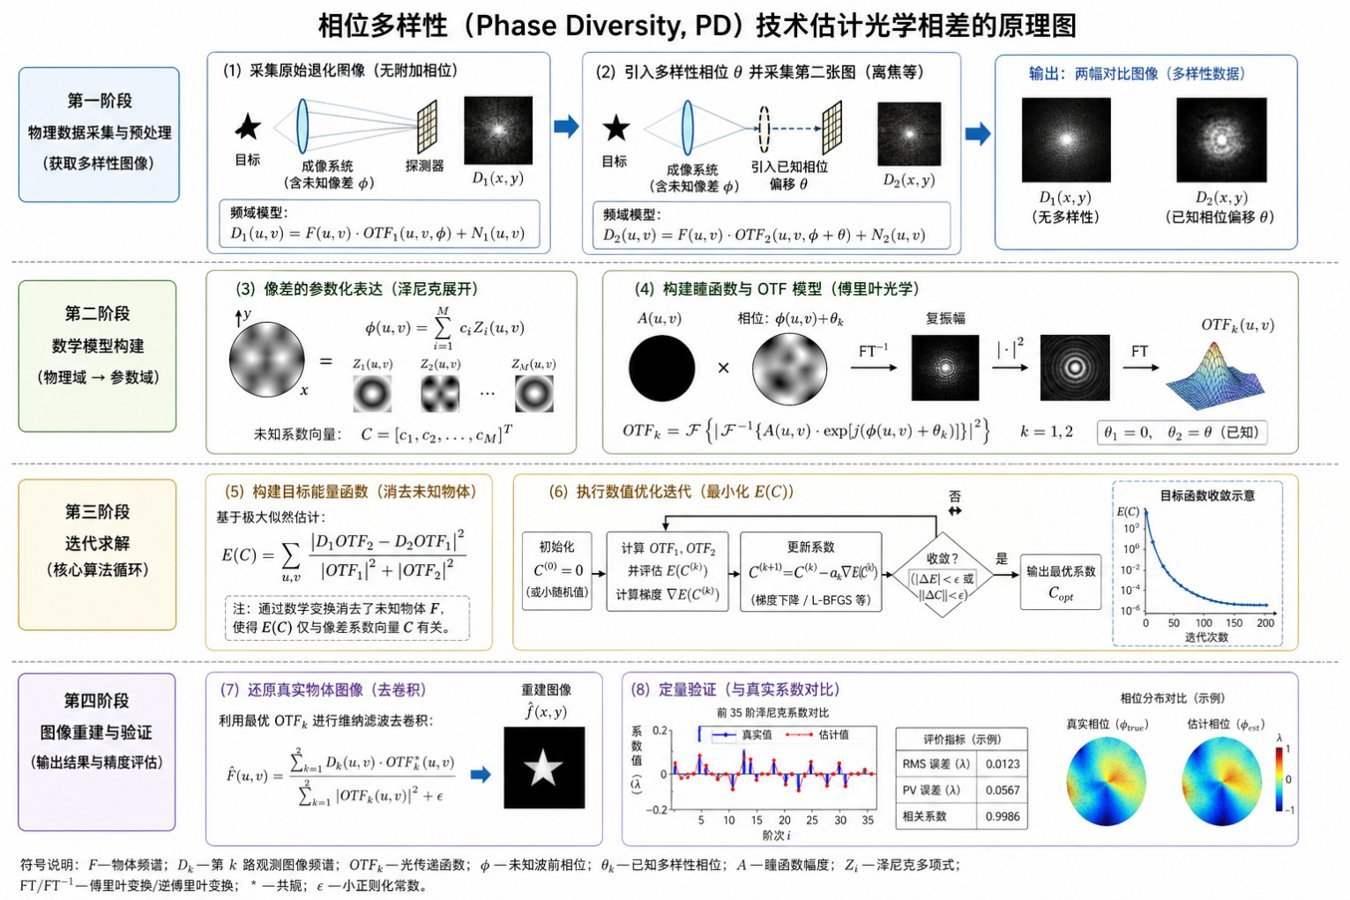
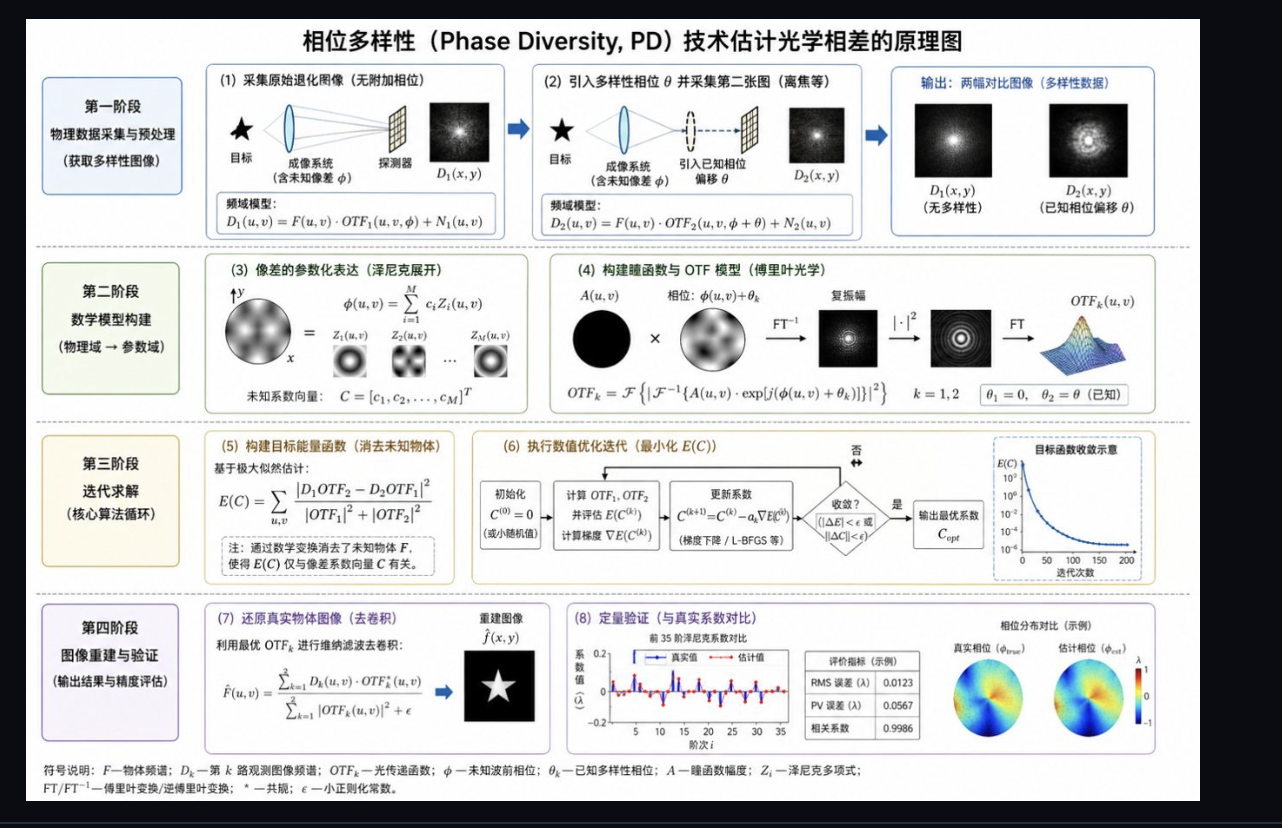
Add files via upload
Update website content and figures

diff --git a/docs/assets/js/app.js b/docs/assets/js/app.js
@@ -29,12 +29,12 @@ if(m.id==='optics')extra='';
 if(m.id==='transfer')extra=`<div class="metrics"><div class="metric"><div class="number">0.800</div><label>SERS single-lab R²</label></div><div class="metric"><div class="number">0.205 ± 0.470</div><label>SERS leave-one-lab mean R²</label></div><div class="metric"><div class="number">0.262</div><label>MDD independent-cohort AUC</label></div></div>`;
 if(m.id==='future')extra=`<div class="formgrid"><div class="field"><label>PHENOMENON / OPERATIONAL DEFINITION</label><textarea id="field1" placeholder="What precisely happens? How is it measured?"></textarea></div><div class="field"><label>AVAILABLE EVIDENCE / LIMIT</label><textarea id="field2" placeholder="What data actually exist? Which tool or concept limits inference?"></textarea></div><div class="field"><label>BASELINE / MODEL A</label><textarea id="field3" placeholder="First mechanism and predictions"></textarea></div><div class="field"><label>NEW CONSTRAINT / MODEL B / TEST</label><textarea id="field4" placeholder="How could evidence distinguish the alternatives?"></textarea></div></div><div class="img-actions"><button class="mini" onclick="saveResearch()">Save this question locally</button><button class="mini" onclick="exportResearch()">Download project notes (.json)</button></div>`;
 
-if(m.id==='datasets')extra=`<div class="atlas-workspace"><div class="scale-tabs" id="scale-tabs"></div><div class="atlas-split"><div class="atlas-visual" id="atlas-visual"><div class="watermark">SCHEMATIC / NOT AN EXPERIMENTAL RESULT</div><svg id="atlas-svg" viewBox="0 0 640 340"></svg></div><div class="atlas-schema"><div class="schema-type" id="atlas-type">BIDS</div><h3 id="atlas-name">Human EEG</h3><div class="filetree" id="atlas-files"></div><div class="schema-gap" id="atlas-limit"></div><div class="schema-link"><a id="atlas-link" target="_blank" rel="noopener noreferrer">OPEN DATA / STANDARD ↗</a></div></div></div><div class="atlas-status" id="atlas-status"></div></div>`;
+if(m.id==='datasets')extra=`<div class="atlas-workspace"><div class="scale-tabs" id="scale-tabs"></div><div class="atlas-split"><div class="atlas-visual" id="atlas-visual"><svg id="atlas-svg" viewBox="0 0 640 340"></svg></div><div class="atlas-schema"><div class="schema-type" id="atlas-type">BIDS</div><h3 id="atlas-name">Human EEG</h3><div class="filetree" id="atlas-files"></div><div class="schema-gap" id="atlas-limit"></div><div class="schema-link"><a id="atlas-link" target="_blank" rel="noopener noreferrer">OPEN DATA / STANDARD ↗</a></div></div></div><div class="atlas-status" id="atlas-status"></div></div>`;
 if(m.id==='gaps')extra=`<div class="gap-workspace"><div class="gap-grid">
 <div class="gap-card"><div class="gap-index">01 / COVERAGE</div><h3>Not measured together.</h3><svg viewBox="0 0 280 205" aria-label="unaligned sampling"><g stroke="#5bd9ec" stroke-width="2" fill="none"><path d="M30 37H248M30 167H248" opacity=".5"/><path d="M67 37V78"/><path d="M209 121V167"/><path d="M67 78Q143 115 209 121" stroke-dasharray="7 9" opacity=".55"/></g><rect x="23" y="17" width="88" height="36" rx="9" fill="#132b3a" stroke="#5bd9ec"/><text x="67" y="40" text-anchor="middle" fill="#d9faff" font-size="16">MICRO</text><rect x="163" y="151" width="96" height="36" rx="9" fill="#132b3a" stroke="#5bd9ec"/><text x="211" y="174" text-anchor="middle" fill="#d9faff" font-size="16">HUMAN</text><text x="140" y="106" fill="#eecb8c" text-anchor="middle" font-size="28">?</text></svg><div class="gap-detail">Cell type, synapse, spikes, LFP and EEG are rarely measured in one matched system.</div><div class="gap-accent">File conversion cannot create an unmeasured variable.</div></div>
 <div class="gap-card"><div class="gap-index">02 / IDENTIFIABILITY</div><h3>Several causes, one trace.</h3><svg viewBox="0 0 280 205" aria-label="two circuit interpretations"><g stroke="#88e4c1" stroke-width="2.3" fill="none"><path d="M16 52L88 78L156 102"/><path d="M16 149L88 125L156 102"/><path d="M156 102L254 102"/></g><g fill="#182a34" stroke="#81dcca" stroke-width="2"><circle cx="17" cy="52" r="11"/><circle cx="88" cy="78" r="11"/><circle cx="17" cy="149" r="11"/><circle cx="88" cy="125" r="11"/></g><path d="M168 102Q180 43 194 102T221 102T248 102" stroke="#edd59e" stroke-width="3" fill="none"/><text x="112" y="190" fill="#829baa" font-size="13">Different circuits · similar LFP</text></svg><div class="gap-detail">Population fields are mixtures shaped by anatomy, filtering, reference and source geometry.</div><div class="gap-accent">Predictive fit is not yet circuit identification.</div></div>
 <div class="gap-card"><div class="gap-index">03 / MEANING & TRANSFER</div><h3>The target may shift.</h3><svg viewBox="0 0 280 205" aria-label="concept shifts across paradigms"><g fill="#203341" stroke="#87bfe2"><rect x="25" y="36" width="93" height="38" rx="7"/><rect x="163" y="36" width="93" height="38" rx="7"/></g><text x="72" y="60" text-anchor="middle" fill="#fff" font-size="15">MOUSE</text><text x="209" y="60" text-anchor="middle" fill="#fff" font-size="15">HUMAN</text><path d="M117 55H161" stroke="#eecb8c" stroke-width="2" stroke-dasharray="5 6"/><text x="141" y="111" text-anchor="middle" font-size="14" fill="#c5d3db">behavior ≠ report</text><text x="141" y="147" text-anchor="middle" font-size="14" fill="#c5d3db">LFP ≠ scalp EEG</text><text x="141" y="182" text-anchor="middle" fill="#eecb8c" font-size="21">?</text></svg><div class="gap-detail">Task definitions, species homology, awareness/report and recording physics can all differ.</div><div class="gap-accent">Test the translation before claiming transfer.</div></div>
-</div><div class="gap-foot"><span>NWB, BIDS and h5ad solve important parts of exchange and reuse.</span><span>THE OPEN GAP IS EXPLANATORY</span></div></div>`;
+</div></div>`;
 if(m.id==='pilot')extra=`<div class="pilot-workspace"><div class="pilot-switch" id="pilot-switch"></div><div class="pilot-board"><div class="pilot-graphic"><svg viewBox="0 0 640 330" role="img" aria-label="Conceptual spike-to-field pipeline"><defs><linearGradient id="pilotG" x1="0" x2="1"><stop stop-color="#63e6fc"/><stop offset="1" stop-color="#ecc991"/></linearGradient></defs><g font-size="15" fill="#a1b7c8" font-weight="700"><text x="30" y="30">VISUAL FLASH</text><text x="30" y="118">UNITS · SPIKES</text><text x="30" y="236">LOCAL LFP</text></g><rect x="30" y="44" width="578" height="24" rx="8" fill="#111b29"/><rect x="82" y="44" width="11" height="24" fill="#ecd28f"/><rect x="245" y="44" width="11" height="24" fill="#ecd28f"/><rect x="416" y="44" width="11" height="24" fill="#ecd28f"/><g stroke="#73dfec" stroke-width="2"><path d="M30 137H609M30 160H609M30 183H609M30 206H609" stroke="#2b4557" stroke-width="1"/><path d="M58 128v18m34 0v-18m60 0v18m30 0v-18m84 0v18m40 0v-18m50 0v18m86 0v-18m88 0v18"/><path d="M63 152v17m26 0v-17m45 0v17m88 0v-17m18 0v17m54 0v-17m52 0v17m110 0v-17"/><path d="M46 176v16m88-16v16m30-16v16m48-16v16m100-16v16m65-16v16m92-16v16"/><path d="M88 199v16m47-16v16m24-16v16m91-16v16m77-16v16m56-16v16m65-16v16"/></g><path d="M30 289 Q51 264 72 286T114 290T156 279T198 289T240 275T282 291T324 278T366 287T408 275T450 291T492 276T534 291T608 280" stroke="url(#pilotG)" stroke-width="4" fill="none" class="glimmer"/><path d="M30 289 Q51 264 72 286T114 290T156 279T198 289T240 275T282 291T324 278T366 287T408 275T450 291T492 276T534 291T608 280" stroke="#000" stroke-width="1" fill="none" stroke-dasharray="8 11" class="pilot-run"/><text x="30" y="316" fill="#768fa3" font-size="12">ILLUSTRATIVE SIGNALS · NOT RESULTS</text></svg></div><div class="pilot-copy"><div class="schema-type" id="pilot-kicker">01 / DATASET</div><h3 id="pilot-title">Allen Visual Coding – Neuropixels</h3><p id="pilot-detail">Public NWB session with simultaneous spike and LFP streams, stimulus events, running and pupil traces. Choose sessions with usable VISp units and an appropriate LFP probe.</p><div class="pilot-code" id="pilot-formula">unit spikes + LFP + flash times + running/pupil</div><div class="pilot-disclaimer">PROPOSED TEST · NO RESULT CLAIMED</div><div class="pilot-source"><a href="https://allensdk.readthedocs.io/en/latest/visual_coding_neuropixels.html" target="_blank" rel="noopener noreferrer">ALLENSDK DATA & EXAMPLE NOTEBOOKS ↗</a></div></div></div></div>`;
 return `<section class="chapter" id="${m.id}"><div class="slide-inner"><div class="chapter-number">${String(i+1).padStart(2,'0')}</div><div class="eyebrow">${m.eyebrow}</div><h2>${m.title}</h2><p class="lead">${m.intro}</p>${extra}${figureHTML(m)}${m.label?'<div class="sm-note">'+m.label+'</div>':''}<div class="question">${m.question}</div></div></section>`}
 el('chapters').innerHTML=modules.map(genChapter).join('');allIds=['cover',...modules.map(x=>x.id),'wall','acknowledgements','closing'];
@@ -42,7 +42,7 @@ el('sideitems').innerHTML=allIds.map((id,i)=>`<button class="navbtn" id="nav-${i
 let sel={};modules.forEach(m=>{sel[m.id]=0;if(!m.gallery?.length)return;el('thumbs-'+m.id).innerHTML=m.gallery.map((id,j)=>{let d=images[id];return `<button class="thumb ${j===0?'on':''}" onclick="selectFig('${m.id}',${j})"><img src="${d.src}" alt="" loading="lazy"/><span><strong>${esc(d.title)}</strong><span class="cap">${esc(d.source)}</span></span></button>`}).join('')});
 function selectFig(mid,j){let m=modules.find(x=>x.id===mid);if(!m||!m.gallery?.length)return;j=(j+m.gallery.length)%m.gallery.length;sel[mid]=j;let id=m.gallery[j],d=images[id];const v=document.querySelector(`[data-main="${mid}"]`);v.src=d.src;v.setAttribute('onclick',`showImg('${id}')`);el('thumbs-'+mid).querySelectorAll('button').forEach((b,i)=>b.classList.toggle('on',i===j));document.querySelector(`[data-title="${mid}"]`).textContent=d.title;document.querySelector(`[data-source="${mid}"]`).textContent=d.source;if(mode)requestAnimationFrame(fitPresentationPage);}
 function cycle(mid,step){selectFig(mid,(sel[mid]||0)+step)}
-function showImg(id){let d=images[id];currentImage=id;el('large').src=d.src;el('largecap').textContent=d.title+' · '+d.source+(d.note?' · '+d.note:'');el('modal').classList.add('open');}
+function showImg(id){let d=images[id];currentImage=id;el('large').src=d.src;let parts=[d.title,d.source,d.note].filter(Boolean);el('largecap').textContent=parts.join(' · ');el('modal').classList.add('open');}
 function closeImg(){el('modal').classList.remove('open');currentImage=null;el('large').src='';}el('close').onclick=closeImg;el('modal').addEventListener('click',e=>{if(e.target===el('modal'))closeImg()});
 
 const datasetAtlas=[
@@ -59,7 +59,7 @@ if(kind==='spikes')return base+`<g stroke="#315267" opacity=".8">${[95,128,161,1
 if(kind==='cell')return base+`<path d="M321 186V267M321 186C300 144 256 144 243 99M321 186C359 162 365 119 419 90M321 188C280 214 248 218 211 247M321 188C363 221 414 221 452 255M243 99L197 60M243 99L267 50M419 90L448 49M419 90L479 107M211 247L165 232M452 255L482 289" stroke="#8fe5d1" stroke-width="5" stroke-linecap="round" fill="none"/><circle cx="321" cy="186" r="25" fill="#123945" stroke="#e4c78b" stroke-width="4"/><path d="M54 283H182M64 266L64 295M84 273L84 287M103 256L103 297M121 279L121 284M143 259L143 297M164 274L164 286" stroke="#e4c78b" stroke-width="3"/><text x="46" y="54" fill="#bddde9" font-size="17">PATCH CLAMP + MORPHOLOGY</text>`;
 if(kind==='graph')return base+`<g stroke="#67cfe0" stroke-width="1.4" opacity=".75">${Array.from({length:65},(_,i)=>{let a=i%20,b=(i*7+3)%20;let x1=90+(a%5)*110,y1=67+Math.floor(a/5)*72;let x2=90+(b%5)*110,y2=67+Math.floor(b/5)*72;return `<path d="M${x1} ${y1}L${x2} ${y2}"/>`}).join('')}</g><g fill="#e9c686" stroke="#91e4ef" stroke-width="2">${Array.from({length:20},(_,i)=>{let a=i%20;return `<circle cx="${90+(a%5)*110}" cy="${67+Math.floor(a/5)*72}" r="9"/>`}).join('')}</g><text x="40" y="323" fill="#b8d3e0" font-size="14">SYNAPSE GRAPH  ↔  FUNCTIONAL TRACE</text>`;
 return base+`<g font-size="13" fill="#a9c0d0">${Array.from({length:8},(_,i)=>`<text x="${28+i*73}" y="56">G${i+1}</text>`).join('')}</g><g>${Array.from({length:6},(_,r)=>Array.from({length:8},(_,c)=>{let n=(r*13+c*7)%10;return `<rect x="${28+c*73}" y="${75+r*34}" width="56" height="25" rx="3" fill="hsl(${185+n*7} 58% ${15+n*4}%)" stroke="#325265"/>`}).join('')).join('')}</g><text x="32" y="305" fill="#dbe9f0" font-size="15">CELLS × GENES   ·   obs / var</text>`;}
-function selectAtlas(i){atlasCurrent=i;let d=datasetAtlas[i];document.querySelectorAll('#scale-tabs .scale-tab').forEach((b,j)=>b.classList.toggle('on',i===j));el('atlas-type').textContent=d.schema;el('atlas-name').textContent=d.title;el('atlas-files').textContent=d.tree;el('atlas-limit').textContent='NOT DIRECTLY OBSERVED · '+d.gap;el('atlas-status').textContent=d.scope;el('atlas-link').href=d.source;el('atlas-svg').innerHTML=atlasPicture(d.visual);}
+function selectAtlas(i){atlasCurrent=i;let d=datasetAtlas[i];document.querySelectorAll('#scale-tabs .scale-tab').forEach((b,j)=>b.classList.toggle('on',i===j));el('atlas-type').textContent=d.schema;el('atlas-name').textContent=d.title;el('atlas-files').textContent=d.tree;el('atlas-limit').textContent='NOT DIRECTLY OBSERVED · '+d.gap;el('atlas-status').textContent='';el('atlas-link').href=d.source;el('atlas-svg').innerHTML=atlasPicture(d.visual);}
 el('scale-tabs').innerHTML=datasetAtlas.map((d,i)=>`<button class="scale-tab" onclick="selectAtlas(${i})">${esc(d.label)}</button>`).join('');selectAtlas(0);
 const pilotStages=[
  ['DATASET','Allen Visual Coding–Neuropixels','NWB spikes, LFP, flash times, running and pupil. Select sessions with good-quality VISp units and usable local LFP, preferably with a second region for a later check.','spikes + LFP + stimulus + behavior'],

diff --git a/docs/data/site-data.js b/docs/data/site-data.js
@@ -12,7 +12,7 @@ window.SITE_DATA = {
         "memory_spikes",
         "theta_example"
       ],
-      "label": "What is already known — and what still needs an explanatory bridge?",
+      "label": "",
       "question": "Which micro-to-meso relations can remain testable in human dynamics?"
     },
     {
@@ -34,7 +34,7 @@ window.SITE_DATA = {
         "animal_memory",
         "theta_example"
       ],
-      "label": "Behavioral definitions constrain what neural signals can mean.",
+      "label": "",
       "question": "What context must a predictive population state retain?"
     },
     {
@@ -43,9 +43,10 @@ window.SITE_DATA = {
       "title": "From navigational behavior to molecular candidates.",
       "intro": "Biological magnetosensing illustrates a difficult macro-to-micro program: identify a physical interaction, molecular candidate and a causal route to the behavior. A microscopic effect alone is not yet a complete circuit-level navigation theory.",
       "gallery": [
-        "chirality_anim"
+        "chirality_anim",
+        "microfluidic_system"
       ],
-      "label": "Related training: spirulina chirality → shear-dependent drift → proposed microfluidic readout.",
+      "label": "",
       "question": "Where is the intermediate transduction and circuit evidence?"
     },
     {
@@ -61,7 +62,7 @@ window.SITE_DATA = {
         "trusense_eleccompare",
         "trusense_ui"
       ],
-      "label": "SensUs 2026: CoDH sensing and biology work · team Gold Award",
+      "label": "",
       "question": "When the trace changes, what physical or biological quantity changed?"
     },
     {
@@ -73,7 +74,7 @@ window.SITE_DATA = {
         "sers_anim",
         "ev_sers_reference"
       ],
-      "label": "Dual-channel method proposal · reference assay shown separately",
+      "label": "",
       "question": "Which signal components estimate the intended biological quantity?"
     },
     {
@@ -82,14 +83,14 @@ window.SITE_DATA = {
       "title": "One image, several possible causes.",
       "intro": "Scattering and wavefront aberrations make inverse imaging non-unique. Phase diversity introduces a known optical change to constrain the inverse problem. Your LoRA work explores adaptation of 3D restoration models, with model limits still requiring testing.",
       "gallery": [
-        "caoburden",
         "caopipeline",
-        "caoprelim",
-        "caohardware",
         "caooverview",
-        "guo_anim"
+        "caoloop",
+        "caobackbone",
+        "caoprelim",
+        "caohardware"
       ],
-      "label": "Computational adaptive optics · proposed system and initial validation",
+      "label": "",
       "question": "Which extra measurement reduces ambiguity rather than only fitting pixels?"
     },
     {
@@ -101,17 +102,8 @@ window.SITE_DATA = {
         "contest_final2d",
         "contest_final3d"
       ],
-      "label": "Original competition report · Fig. 4-1 (2D Zemax) · Fig. 4-2 (3D model) · July 2026",
+      "label": "",
       "question": "How do imaging performance and practical fabrication constraints shape a feasible optical design?"
-    },
-    {
-      "id": "transfer",
-      "eyebrow": "VALIDATION / TRANSFER",
-      "title": "A predictive feature may not be invariant.",
-      "intro": "In your SERS public-data analysis, cross-laboratory performance fell relative to within-laboratory validation; the fixed MDD signature did not transfer to a separate tissue and platform. These are real limits of that analysis, and a reason to explicitly test cross-species transfer assumptions.",
-      "gallery": [],
-      "label": "Rotation 2 · observed generalization limits",
-      "question": "What relation stays stable when the measurement domain changes?"
     },
     {
       "id": "mind",
@@ -122,7 +114,7 @@ window.SITE_DATA = {
         "cogitate",
         "memory_spikes"
       ],
-      "label": "COGITATE Consortium · Nature 2025",
+      "label": "",
       "question": "Which contrast would make the concept experimentally decidable?"
     },
     {
@@ -135,7 +127,7 @@ window.SITE_DATA = {
         "model_gu",
         "model_lyu"
       ],
-      "label": "Pang · Nature, 2023  |  Gu · Nature Communications, 2015  |  Lyu · Nature Neuroscience, 2025  · explanatory schematics",
+      "label": "",
       "question": "Could one circuit-constrained dynamical model predict a human response that was not used for fitting?"
     },
     {
@@ -153,7 +145,7 @@ window.SITE_DATA = {
       "title": "Three different reasons a bridge may fail.",
       "intro": "Current limitations are not just a missing timestamp or an inconvenient file format. Some variables were never measured together; other circuit states remain indistinguishable in the recording; some constructs are not yet operationally stable.",
       "gallery": [],
-      "label": "These are methodological diagnoses from the source survey; they are not claimed experimental results.",
+      "label": "",
       "question": "Which missing constraint would actually change the model we can test?"
     },
     {
@@ -185,7 +177,7 @@ window.SITE_DATA = {
     },
     "memory_spikes": {
       "title": "Human memory retrieval: neuronal sequence replay",
-      "source": "Vaz et al. · Science · 2020",
+      "source": "Vaz et al., Science, 2020",
       "group": "neural",
       "note": "From supplied research presentation; literature figure",
       "src": "./assets/images/memory_spikes.jpg"
@@ -199,9 +191,9 @@ window.SITE_DATA = {
     },
     "cogitate": {
       "title": "COGITATE: competing consciousness predictions",
-      "source": "COGITATE Consortium · Nature · 2025",
+      "source": "",
       "group": "neural",
-      "note": "Literature figure from earlier supplied research presentation",
+      "note": "",
       "src": "./assets/images/cogitate.jpg"
     },
     "theta_example": {
@@ -226,32 +218,32 @@ window.SITE_DATA = {
       "src": "./assets/images/caoburden.jpg"
     },
     "caopipeline": {
-      "title": "Phase diversity: image pairs and wavefront recovery",
-      "source": "Guo Min lab · project proposal · 2026",
+      "title": "Phase diversity (PD): optical phase estimation principle",
+      "source": "",
       "group": "guo",
-      "note": "Method diagram from user-supplied proposal",
+      "note": "",
       "src": "./assets/images/caopipeline.jpg"
     },
     "caoprelim": {
       "title": "Wavefront estimation and recovery: initial validation",
-      "source": "Guo Min lab · project proposal · 2026",
+      "source": "",
       "group": "guo",
-      "note": "Initial validation figure presented in proposal",
+      "note": "",
       "src": "./assets/images/caoprelim.jpg"
     },
     "caohardware": {
       "title": "Adaptive-optics fluorescence microscopy setup",
-      "source": "Guo Min lab · project proposal · 2026",
+      "source": "",
       "group": "guo",
-      "note": "Optical layout and lab photo from proposal",
+      "note": "",
       "src": "./assets/images/caohardware.jpg"
     },
     "caooverview": {
       "title": "Deep-tissue computational microscopy study plan",
-      "source": "Guo Min lab · project proposal · 2026",
+      "source": "",
       "group": "guo",
-      "note": "Research design / proposed system",
-      "src": "./assets/images/caooverview.jpg"
+      "note": "",
+      "src": "./assets/images/caooverview_new.png"
     },
     "trusense_device": {
       "title": "Wearable TruSense: exploded-device schematic",
@@ -311,23 +303,23 @@ window.SITE_DATA = {
     },
     "ev_sers_reference": {
       "title": "Reference SERS sandwich-assay scheme",
-      "source": "User-provided reference figure · source not specified",
+      "source": "",
       "group": "sers",
-      "note": "Earlier EpCAM/TGF-β1 schematic; differs from current CD45/CD28/CD16 proposal",
+      "note": "",
       "src": "./assets/images/ev_sers_reference.jpg"
     },
     "chirality_anim": {
       "title": "Chirality selection in shear flow · animated",
-      "source": "Your Xie Can rotation · conceptual mechanism",
+      "source": "",
       "group": "mechanism",
-      "note": "Predicted separation; no completed device validation",
+      "note": "",
       "src": "./assets/images/chirality_anim.gif"
     },
     "sers_anim": {
       "title": "SERS dual-channel detection · animated",
-      "source": "Your proposed CD45+ EV / CD28–CD16 work",
+      "source": "",
       "group": "sers",
-      "note": "Conceptual animation; not a validated diagnostic result",
+      "note": "",
       "src": "./assets/images/sers_anim.gif"
     },
     "guo_anim": {
@@ -346,38 +338,59 @@ window.SITE_DATA = {
     },
     "contest_final2d": {
       "title": "Final team lens · 2D Zemax ray trace",
-      "source": "Competition report · Sec. 4.1, Fig. 4-1 · July 2026",
-      "note": "Final optimized team optical structure. Zemax simulation, not a photograph of a manufactured lens.",
+      "source": "",
+      "note": "",
       "group": "optics",
       "src": "./assets/images/contest_final2d.jpg"
     },
     "contest_final3d": {
       "title": "Final optical system · 3D digital model",
-      "source": "Competition report · Sec. 4.1, Fig. 4-2 · July 2026",
-      "note": "Original 3D optical model from the submitted report. It is a digital design, not a physical prototype.",
+      "source": "",
+      "note": "",
       "group": "optics",
       "src": "./assets/images/contest_final3d.jpg"
     },
     "model_pang": {
       "title": "Geometry-based eigenmodes · conceptual explanation",
-      "source": "Pang et al. · Nature · May 2023",
+      "source": "Pang et al., Nature, 2023",
       "group": "neural",
       "note": "Illustrative decomposition, not a reproduction of the paper figure",
       "src": "./assets/images/model_pang.svg"
     },
     "model_gu": {
       "title": "From connectome to control of state transitions",
-      "source": "Gu et al. · Nature Communications · October 2015",
+      "source": "Gu et al., Nature Communications, 2015",
       "group": "neural",
       "note": "Theory-based schematic; linear model assumptions matter",
       "src": "./assets/images/model_gu.svg"
     },
     "model_lyu": {
       "title": "Human thalamocortical stimulation–response constraints",
-      "source": "Lyu et al. · Nature Neuroscience · July 2025",
+      "source": "Lyu et al., Nature Neuroscience, 2025",
       "group": "neural",
       "note": "Schematic only; waveforms are illustrative, not experimental data",
       "src": "./assets/images/model_lyu.svg"
+    },
+    "microfluidic_system": {
+      "title": "Integrated microfluidic system for helical microalgae",
+      "source": "",
+      "group": "mechanism",
+      "note": "",
+      "src": "./assets/images/microfluidic_system.png"
+    },
+    "caoloop": {
+      "title": "Wavefront-estimation algorithm: iterative correction loop",
+      "source": "",
+      "group": "guo",
+      "note": "",
+      "src": "./assets/images/caoloop.png"
+    },
+    "caobackbone": {
+      "title": "3D restoration backbone and LoRA insertion points",
+      "source": "",
+      "group": "guo",
+      "note": "",
+      "src": "./assets/images/caobackbone.png"
     }
   }
 };
